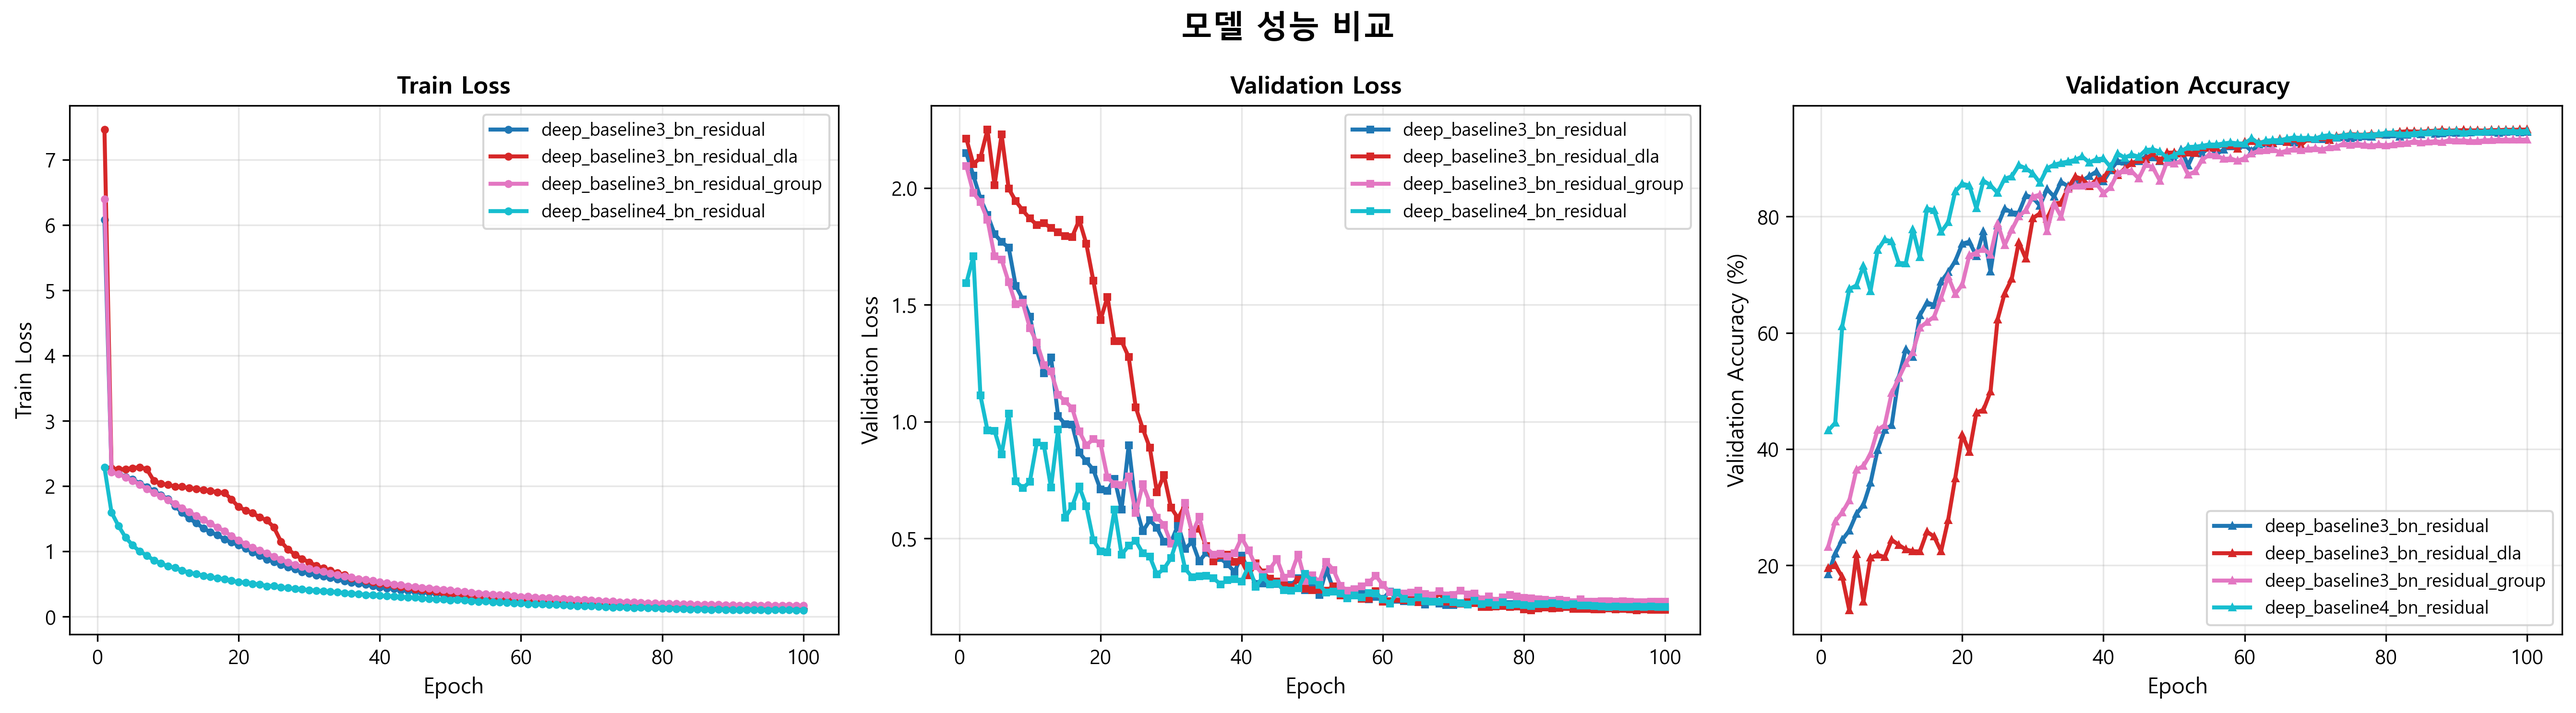
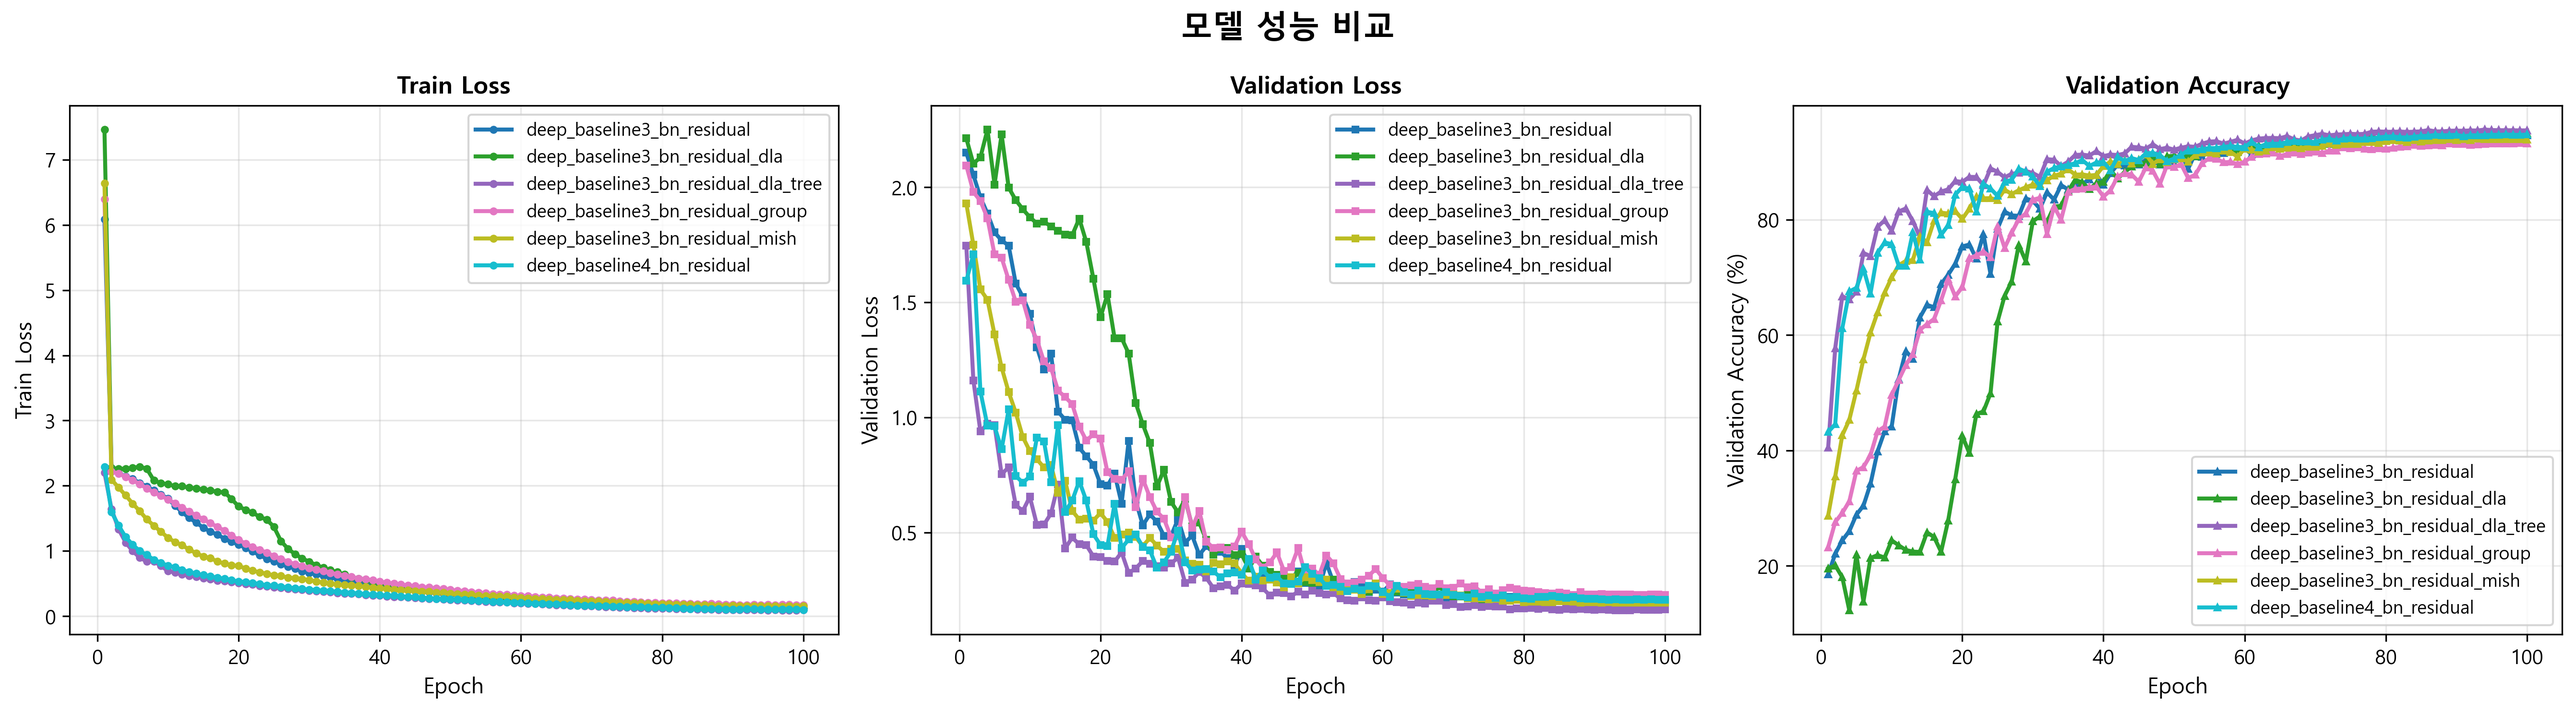
Add num_workers argument to DataLoader in main.py and update README.md
- Introduced a new command-line argument '--num-workers' in `parse_args` to allow users to specify the number of DataLoader workers.
- Enhanced DataLoader configurations in `main.py` to utilize the new argument, with automatic settings based on AutoAugment usage.
- Updated the model comparison table in `README.md` to include parameter counts for various models and added a new image for visual comparison.

diff --git a/main.py b/main.py
@@ -311,6 +311,8 @@ def parse_args():
                         help='Early stopping patience 값 (default: 5)')
     parser.add_argument('--output-dir', type=str, default='outputs',
                         help='모델 및 히스토리 파일 저장 디렉토리 (default: outputs)')
+    parser.add_argument('--num-workers', type=int, default=None,
+                        help='DataLoader의 워커 수 (None이면 자동 설정: AutoAugment 사용 시 4, 그 외 2, default: None)')
     return parser.parse_args()
 
 
@@ -401,14 +403,29 @@ def main():
     elif args.mixup and args.augment and mixup_start_epoch == 0:
         collate_fn = mixup_collator
     
+    # num_workers 자동 설정: AutoAugment 사용 시 더 많은 워커 필요
+    if args.num_workers is None:
+        # AutoAugment는 CPU에서 무거운 작업이므로 더 많은 워커 사용
+        num_workers = 4 if args.autoaugment and args.augment else 2
+    else:
+        num_workers = args.num_workers
+    
+    # GPU 사용 시 pin_memory 활성화로 전송 속도 향상
+    pin_memory = torch.cuda.is_available()
+    # persistent_workers로 워커 재생성 오버헤드 감소 (num_workers > 0일 때만)
+    persistent_workers = num_workers > 0
+    
     train_loader = torch.utils.data.DataLoader(
-        train_set, batch_size=args.batch_size, shuffle=True, num_workers=2,
-        collate_fn=collate_fn)
+        train_set, batch_size=args.batch_size, shuffle=True, 
+        num_workers=num_workers, pin_memory=pin_memory,
+        persistent_workers=persistent_workers, collate_fn=collate_fn)
 
     val_set = torchvision.datasets.CIFAR10(
         root='./data', train=False, download=True, transform=val_transform)
     val_loader = torch.utils.data.DataLoader(
-        val_set, batch_size=args.batch_size, shuffle=False, num_workers=2)
+        val_set, batch_size=args.batch_size, shuffle=False, 
+        num_workers=num_workers, pin_memory=pin_memory,
+        persistent_workers=persistent_workers)
 
     dataiter = iter(train_loader)
     images, labels = next(dataiter)
@@ -456,7 +473,9 @@ def main():
             'weight_init': args.w_init,
             'device': str(device),
             'early_stopping': args.early_stopping,
-            'early_stopping_patience': args.early_stopping_patience if args.early_stopping else None
+            'early_stopping_patience': args.early_stopping_patience if args.early_stopping else None,
+            'num_workers': num_workers,
+            'pin_memory': pin_memory
         },
         'train_loss': [],
         'val_loss': [],
@@ -512,8 +531,9 @@ def main():
         if current_collate_fn != collate_fn:
             collate_fn = current_collate_fn
             train_loader = torch.utils.data.DataLoader(
-                train_set, batch_size=args.batch_size, shuffle=True, num_workers=2,
-                collate_fn=collate_fn)
+                train_set, batch_size=args.batch_size, shuffle=True, 
+                num_workers=num_workers, pin_memory=pin_memory,
+                persistent_workers=persistent_workers, collate_fn=collate_fn)
         
         running_loss = 0.0
         pbar = tqdm(train_loader, desc=f'Epoch {epoch + 1}/{args.epochs}')

diff --git a/README.md b/README.md
@@ -185,15 +185,19 @@ scheduler: Cosine Annealing LR
 optimizer: Adam
 Weight Initialization: ✅
 
-| 모델 | 세부 사항 | 최고 Val Accuracy (%) |
-|------|------------|----------------------|
-| deep_baseline3_bn_residual | -- | 94.65 |
-| deep_baseline3_bn_residual_shakedrop | -- | 92.14 |
-| deep_baseline3_bn_residual_mish | -- | 94.03 |
-| deep_baseline3_bn_residual_dla_tree | -- | 95.59 |
-| deep_baseline3_bn_residual_group | -- | 93.22 |
-| deep_baseline3_bn_residual_dla | -- | **94.96** |
-| deep_baseline4_bn_residual | -- | 94.73 |
+| 모델 | 세부 사항 | 최고 Val Accuracy (%) | Parameter Count |
+|------|------------|----------------------|----------------------|
+| baseline_bn | -- | 0.7 M |
+| deep_baseline3_bn_residual | -- | 94.65 | 10.4 M |
+| deep_baseline3_bn_residual_shakedrop | -- | 92.14 | 10.4 M |
+| deep_baseline3_bn_residual_mish | -- | 94.03 | -- |
+| deep_baseline3_bn_residual_dla_tree | -- | **95.59** | 42.6 M |
+| deep_baseline3_bn_residual_group | -- | 93.22 | -- |
+| deep_baseline3_bn_residual_dla | -- | 94.96 | 11 M |
+| deep_baseline4_bn_residual | -- | 94.73 | 11.1 M |
+| DLA | -- | 94.9 | 16.2M |
+
+![image](./comparison/final_comparison_2.png)
 
 # BaseModel
 lr: 0.001
